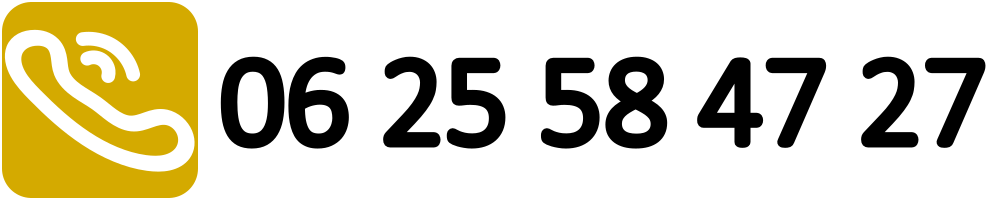
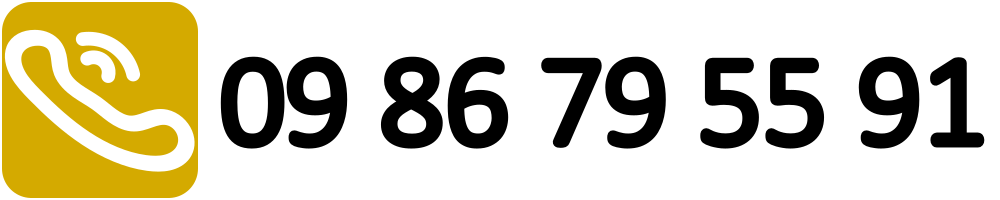
Landline

Changed region(s): [[0.279, 0.27, 0.992, 0.75], [0.868, 0.27, 0.899, 0.3]]

diff --git a/index.html b/index.html
@@ -56,7 +56,7 @@ https://templatemo.com/tm-562-space-dynamic
 <h4>Poddy<br><span>Diagnostic immobilier</span></h4>
 </span>
 
-<a href="tel:+33625584727" class="logo-phone">
+<a href="tel:+33986795591" class="logo-phone">
 <img src="assets/images/phone-icon.png" alt="Appeler Poddy">
 </a>
 
@@ -303,7 +303,7 @@ https://templatemo.com/tm-562-space-dynamic
             <h2>Contactez-Nous</h2>
             <p>Une question ? Une demande de diagnostic ? Contactez-nous directement.</p>
             <div class="phone-info">
-              <a href="tel:+33625584727">
+              <a href="tel:+33986795591">
                 <img src="assets/images/phone-icon.png" alt="Téléphone Poddy" style="max-width:250px;height:auto;">
               </a>
             </div>

diff --git a/pages/amiante.html b/pages/amiante.html
@@ -55,7 +55,7 @@
 <h4>Poddy<br><span>Diagnostic immobilier</span></h4>
 </span>
 
-<a href="tel:+33625584727" class="logo-phone">
+<a href="tel:+33986795591" class="logo-phone">
 <img src="../assets/images/phone-icon.png" alt="Appeler Poddy">
 </a>
 

diff --git a/pages/dpe.html b/pages/dpe.html
@@ -55,7 +55,7 @@
 <h4>Poddy<br><span>Diagnostic immobilier</span></h4>
 </span>
 
-<a href="tel:+33625584727" class="logo-phone">
+<a href="tel:+33986795591" class="logo-phone">
 <img src="../assets/images/phone-icon.png" alt="Appeler Poddy">
 </a>
 

diff --git a/pages/electricite.html b/pages/electricite.html
@@ -55,7 +55,7 @@
 <h4>Poddy<br><span>Diagnostic immobilier</span></h4>
 </span>
 
-<a href="tel:+33625584727" class="logo-phone">
+<a href="tel:+33986795591" class="logo-phone">
 <img src="../assets/images/phone-icon.png" alt="Appeler Poddy">
 </a>
 

diff --git a/pages/gaz.html b/pages/gaz.html
@@ -55,7 +55,7 @@
 <h4>Poddy<br><span>Diagnostic immobilier</span></h4>
 </span>
 
-<a href="tel:+33625584727" class="logo-phone">
+<a href="tel:+33986795591" class="logo-phone">
 <img src="../assets/images/phone-icon.png" alt="Appeler Poddy">
 </a>
 

diff --git a/pages/plomb.html b/pages/plomb.html
@@ -55,7 +55,7 @@
 <h4>Poddy<br><span>Diagnostic immobilier</span></h4>
 </span>
 
-<a href="tel:+33625584727" class="logo-phone">
+<a href="tel:+33986795591" class="logo-phone">
 <img src="../assets/images/phone-icon.png" alt="Appeler Poddy">
 </a>
 

diff --git a/pages/tarifs.html b/pages/tarifs.html
@@ -34,7 +34,7 @@
 <h4>Poddy<br><span>Diagnostic immobilier</span></h4>
 </span>
 
-<a href="tel:+33625584727" class="logo-phone">
+<a href="tel:+33986795591" class="logo-phone">
 <img src="../assets/images/phone-icon.png" alt="Appeler Poddy">
 </a>
 

diff --git a/pages/termites.html b/pages/termites.html
@@ -55,7 +55,7 @@
 <h4>Poddy<br><span>Diagnostic immobilier</span></h4>
 </span>
 
-<a href="tel:+33625584727" class="logo-phone">
+<a href="tel:+33986795591" class="logo-phone">
 <img src="../assets/images/phone-icon.png" alt="Appeler Poddy">
 </a>
 
